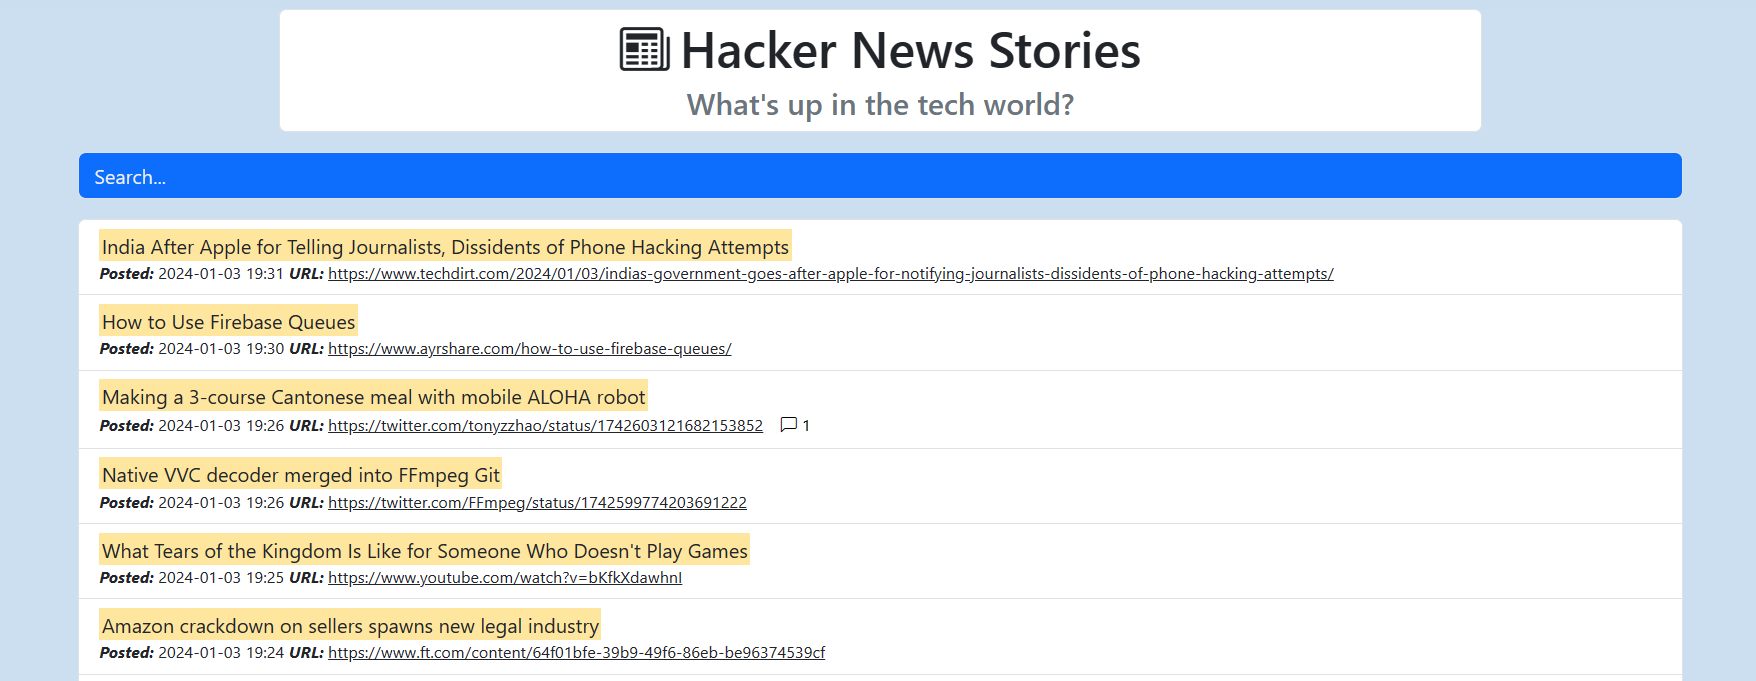
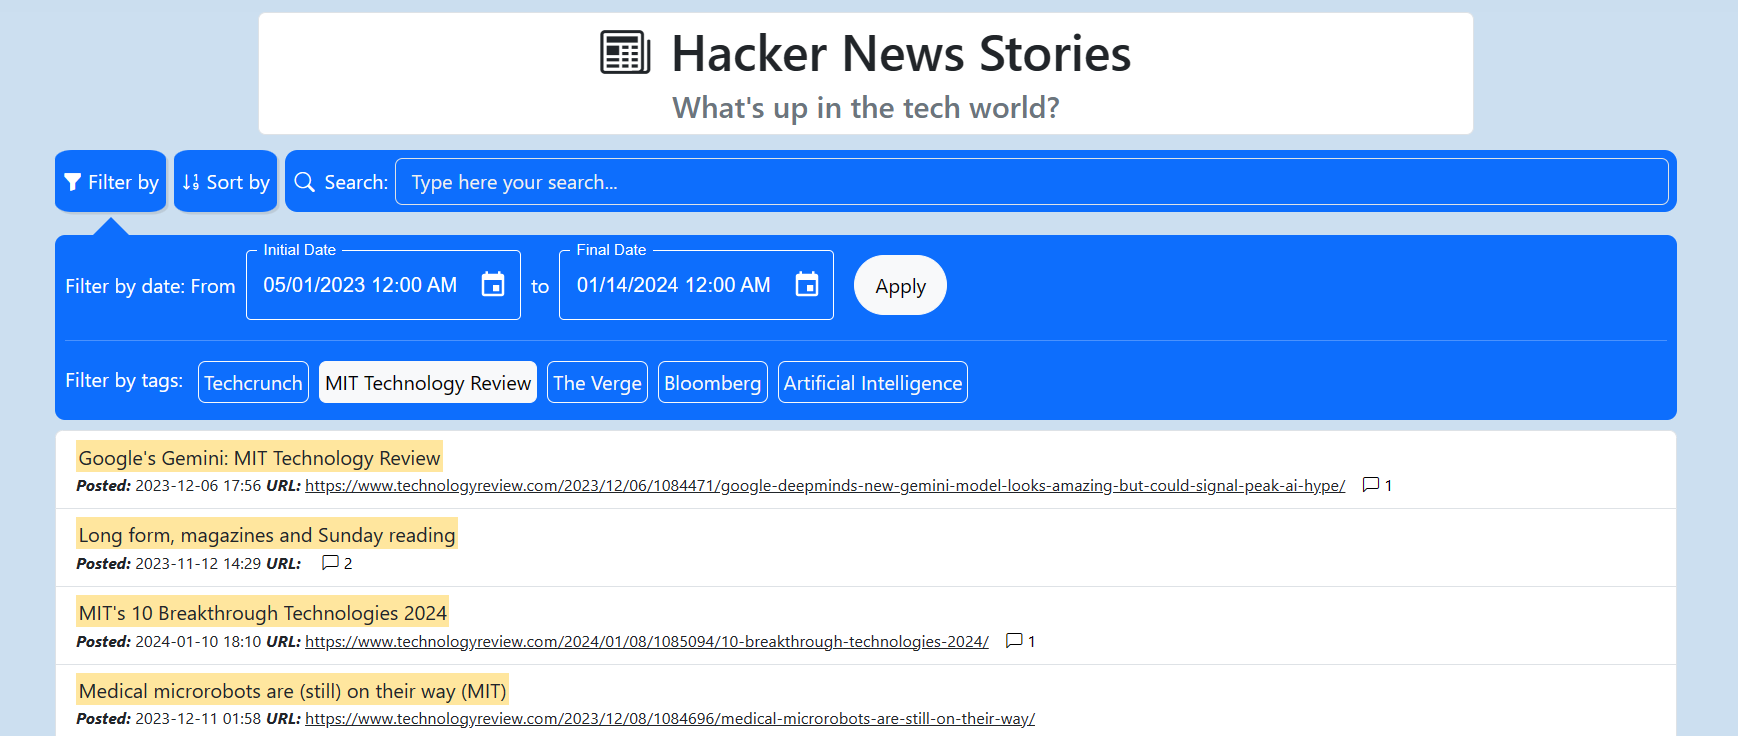
updated hacker news stories project

diff --git a/projects.js b/projects.js
@@ -20,12 +20,13 @@ const projects = [
   {
     title: 'Hacker News Stories Website',
     description:
-      'This React application provides a user-friendly interface for exploring the latest Hacker News stories. Users can search for specific topics and navigate through paginated results. The app also includes a feature to display comments and subcomments associated with each story.',
+      'This React application provides a user-friendly interface for exploring the Hacker News stories. Users can filter by date and by tags, sort by different criteria, search for keywords and navigate through paginated results. The app also allows the users to view nested comments associated with each story.',
     cover: './assets/hacker news stories.png',
     tags: [
       'Personal',
       'React',
       'Mobile First',
+      'Material UI',
       'Bootstrap',
     ],
     websiteLink:
@@ -173,6 +174,11 @@ const tags = [
   {
     tag: 'Game',
     style: 'success',
+    selected: false,
+  },
+  {
+    tag: 'Material UI',
+    style: 'primary',
     selected: false,
   },
   {
